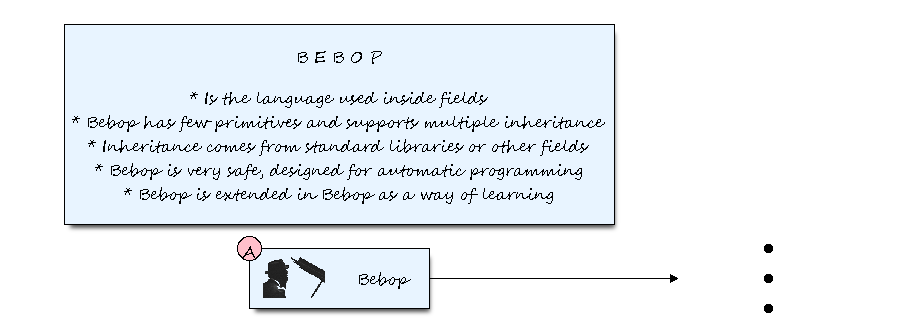
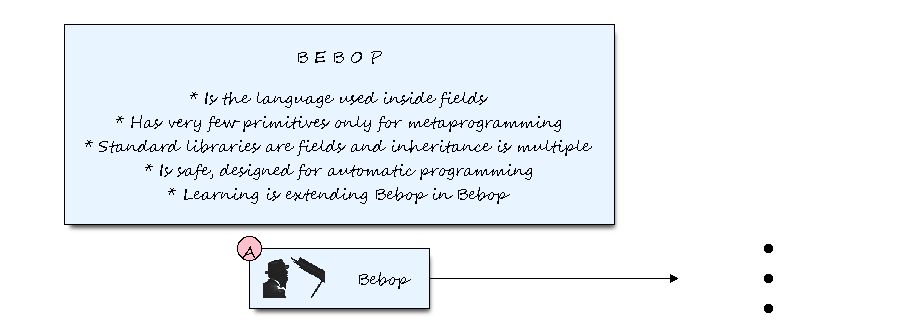
automated commit, Sat 25 Jan 2020 10:31:55 PM CET

Changed region(s): [[0.0911, 0.4217, 0.6377, 0.5422], [0.0911, 0.3614, 0.6681, 0.3916], [0.1518, 0.5723, 0.6074, 0.6024]]

diff --git a/jazz_reference/vision_bop_fields_contexts.html b/jazz_reference/vision_bop_fields_contexts.html
@@ -410,15 +410,85 @@ $('#toc').on('click', 'a', function() {
 
     
 
-  <h2 id="introducing-bebop">Introducing Bebop</h2>
+  <h2 id="introducing-jazz-magic">Introducing “Jazz Magic”</h2>
+
+<p>Until now, we introduced blocks, filestores and containers that somehow (we will get there) are accessed via http. That part is just a very efficient and hopefully simple way to manage already known things. The basement of Jazz so to say. The question is still: “why bother using Jazz instead of any other platform with more traction that implements these things?” Hint: Efficiency and simplicity alone are not good enough reasons.</p>
+
+<p>Before we talk about <code class="highlighter-rouge">Field</code>, <code class="highlighter-rouge">Relation</code>,<code class="highlighter-rouge">Context</code> and some other classes, we need to explain where we want to go. What we want to build is a platform that can do distributed computation building on top of simple programs (functions).</p>
+
+<p>You can look at artificial neurons as programs, they are, and at deep learning as “software 2.0”, that has been said. Does that mean
+we will never need anything other than DL? Imagine you need to code a known equation, say the fundamental equation of thermodynamics. Given enough data, you can get an acceptable approximation with millions of parameters. Aside from size and efficiency, the model comes with absolutely no warranty, especially for out of distribution data and no interpretability. Each time you have to introduce any change and train again, you have to “rediscover thermodynamics”. Actually, a less general, less precise and less computationally efficient version of it.</p>
+
+<p>Of course, you don’t need to use deep learning for that, you can use any back-end programming language and have a human code the equation for you. Nothing new under the sun.</p>
+
+<p>Why choose? That’s our point. We want to build a computing framework that can be coded by humans, thus creating simple and efficient programs. But we want these programs to also be learned. We want a framework that can be coded, in a language that is safe enough to explore automatic programming while being extensible enough to include natural language as code.</p>
+
+<p>In the outworn debate between “symbolic” and “connectionist”, again: why choose? Knowledge can be built as networks of symbols, but not symbols that only have meaning for humans, grounded symbols, symbols that can be executed as code and queried. Because growing as networks
+of programs is the natural way, this is connectionism. In fact, it extends connectionism beyond deep learning since the architecture is also learned. Let’s assume that “deep learning” is defined as “anything based on differentiable end-to-end learning”, which of course is an objectionable definition, but allow us to oversimplify for now. The reason why DL needs being differentiable is because anything that cannot do gradient based optimization is too slow to work. And that is true, but only if you need to train millions (or billions) of parameters from scratch each time you train. Living systems don’t do that.</p>
+
+<p>Until now, “lifelong learning” is just an aspiration with no real content. Well, except for living things.</p>
+
+<p>We want to learn these programs, which is why we need efficient persistence to support their lifecycle. But we do not want to learn them through SGD, that’s why we don’t need the differentiable part. We want to learn few parameters at a time.</p>
+
+<p>Automatic programming has been the holy grail of AI since the times of von Neumann. Minsky even stated that the von Neumann architecure was created with the intention to do automatic programming (previous architectures had a hard code/data separation and code was not modifiable while running). Other languages, including Lisp, clearly had automated programming in mind when designed.</p>
+
+<p>The search space is virtually infinite, why do you want to fail again?</p>
+
+<p>The search space is virtually infinite in all interesting problems, including those already solved, and anyway, it is much smaller than that of deep learning, since programs are much shorter than weight vectors. The size of the search space is only an obstacle in problems that can only be approached from the uniform distribution like one-way functions. Automatic coding can be approached from many fields including genetic programming, evolutionary algorithms, compositionality and more. We also have some examples of success, including humans. Even if abiogenesis is still an unsolved problem, something finally managed to automatically build the code of some primordial cell. Let’s put it this way: It’s easier than abiogenesis because we can hack as much as we want instead of waiting for the universe to solve it for us.</p>
+
+<p>So we do not build Jazz with the intention of creating conscious robots in five years. We build it because, worst case, we have a lightweight efficient framework to express distributed data processing problems that can be used to make lots of things happen. We build it because, if not built, we cannot research the ideas we want to research to advance the field of automatic programming. Ultimately, we build it because we dream of Jazz becoming a “failure” like the von Neumann architecture or Lisp.</p>
+
+<h2 id="introducing-bebop">Introducing Bebop</h2>
+
+<p><span class="label label-info">Bebop</span></p>
+
+<p>Jazz has a programming language called <strong>Bebop</strong> (or simply <strong>Bop</strong>).</p>
+
+<div class="alert alert-warning" role="alert"><i class="fa fa-warning"></i> <b>Important:</b> Bebop is work in progress. The reference is included in its source code and available via the <a href="/develop/">developer documentation</a>. Coding safety mechanisms are explained in a paper to be shared soon.</div>
 
 <figure><img class="docimage" src="images/jazz_bebop.png" alt="" /><figcaption>Bebop</figcaption></figure>
 
+<h3 id="bebop-operates-at-source-and-bytecode-level">Bebop operates at source and bytecode level</h3>
+
+<p>After years considering different designs (starting after years trying to use existing languages) we picked a design that extremely simplifies parsing while extending Bop to make it as simple as natural language or multimedia sources. The price is, at least for the moment, you cannot code in Bop without understanding its <strong>bytecode</strong>. Bytecode is just a name, actually it is a vector or 32 bit integers with a special attribute identifying the owning <code class="highlighter-rouge">Field</code>. Positive numbers define functions, negative numbers define arguments (this includes constants, local variables, values passed by reference, constants passed by reference, etc.). The bytecode is executed as a stream of function calls with arguments passed on a stack. Conditionals jumps are supported by via functions.</p>
+
+<p>Bebop compiles anything to <strong>bytecode</strong> on request. Of course, many times it will fail, that is part of the game. Anything includes blocks containing binary files. Take a block containing an .mp3 compressed audio file. A <code class="highlighter-rouge">Field</code> named “wave data” could compile the file resulting in a function call that takes the file as an argument an decompresses it into a vector of integers.</p>
+
+<p>Besides anything potentially being considered <strong>code</strong>, Bop has a source code (text identified by a special attribute) that is just a human friendly way to manage the bytecode including basic things as: comments, includes, variable names, brackets to define code blocks, but not much more.</p>
+
+<h3 id="bebop-is-object-oriented-in-its-own-way">Bebop is object oriented (in its own way)</h3>
+
+<p>Anything provided by OOP: organization, abstraction, inheritance is provided by the class <code class="highlighter-rouge">Field</code>. This makes it unnecessary to build again classes in Bop as contemplated by previous designs. Inheritance is multiple, this implies creating a virtual <code class="highlighter-rouge">Field</code> which is the union of the inherited fields. It also creates new bytecode key assignment.</p>
+
+<h3 id="bebop-is-functional">Bebop is functional</h3>
+
+<p>In the sense that functions (bytecode) can be passed as arguments to functions and returned by functions. Also, blocks are immutable, reads are safe, writes are idempotent. It is not purely functional since side effects are possible because arguments can be passed by reference. It is up to the user to decide to make it purely functional or not.</p>
+
+<h3 id="bebop-is-safe">Bebop is safe</h3>
+
+<p>Bop supports both static and dynamic analysis of its own code. Static allows analyzing the code without running it. The mechanism implemented is described in a paper that will be shared soon. Dynamic allows defining alternative code in case of failure, called forking a function.</p>
+
+<h3 id="bebop-forks">Bebop forks</h3>
+
+<p>Pure functions can be forked from other pure functions. A <strong>forked forked</strong> points to its ancestor which can be called as an alternative in case the function raises an error. This requires functions to be pure functions (not have arguments passed by reference).</p>
+
+<h3 id="automatic-function-result-caching">Automatic function result caching</h3>
+
+<p>Pure functions can be optionally cached (memoized) by a directive. This makes caching simple, reliable and potentially hugely profitable. Function caching can also be used as a algorithmic strategy as in <strong>dynamic programming</strong>.</p>
+
 <h2 id="introducing-fields">Introducing Fields</h2>
+
+<p><span class="label label-info">Field</span></p>
+
+<p>As mentioned, a <code class="highlighter-rouge">Field</code> is an abstraction that has many of the features classes have in OOP. It is also similar to a package or library. Some STL fields will include efficient functions to do arithmetic, algebra, text manipulation, etc. Fields can also be purely created in Bop. Fields relate to each other, not by a DAG like code dependencies, but by relations. Reading the next page on relations will shed light on the role fields play in Jazz.</p>
 
 <figure><img class="docimage" src="images/jazz_field.png" alt="" /><figcaption>Field class</figcaption></figure>
 
 <h2 id="introducing-contexts">Introducing Contexts</h2>
+
+<p><span class="label label-info">Context</span></p>
+
+<p>A <code class="highlighter-rouge">Context</code> can be seen as an actionable log file. This is a requirement for reproducibility and is also required to compare learning methods. The precise definition of a context will surely change over time. So take <code class="highlighter-rouge">Context</code> informally as “everything required to reproduce a result”. It could be a conversation with a chatbot, a text corpus used to answer questions, … Ideally, in a format like a macro that records and plays back interactions, possibly one by one, with the same or different code.</p>
 
 <figure><img class="docimage" src="images/jazz_context.png" alt="" /><figcaption>Context class</figcaption></figure>
 
@@ -458,7 +528,7 @@ $('#toc').on('click', 'a', function() {
             <div class="row">
                 <div class="col-lg-12 footer">
                &copy;2020 kaalam.ai. All rights reserved. <br />
- Site last generated: Jan 19, 2020 <br />
+ Site last generated: Jan 25, 2020 <br />
 <p><img src="images/company_logo.png" alt="Company logo"/></p>
                 </div>
             </div>

diff --git a/jazz_reference/vision_blocks_containers.html b/jazz_reference/vision_blocks_containers.html
@@ -412,10 +412,10 @@ $('#toc').on('click', 'a', function() {
 
   <h2 id="introducing-blocks">Introducing Blocks</h2>
 
-<p><span class="label label-info">JazzBlock</span></p>
+<p><span class="label label-info">Block</span></p>
 
-<p>In Jazz <strong>everything is a block</strong>. This means all the classes, data, functions, Bop programs and static objects that make a system are
-stored as blocks. Even the block containers are stored as blocks. Let’s start with what blocks are made of.</p>
+<p>In Jazz <strong>everything is a</strong> <code class="highlighter-rouge">Block</code>. This means all the classes, data, functions, Bop programs and static objects that make a system are
+stored as blocks. Even block containers are stored as blocks. Let’s start with what blocks are made of.</p>
 
 <figure><img class="docimage" src="images/jazz_block.png" alt="" style="max-width: 540px" /><figcaption>A jazz block</figcaption></figure>
 
@@ -425,13 +425,13 @@ stored as blocks. Even the block containers are stored as blocks. Let’s start 
 include what you expect in any language: Boolean, integer, float, string of different sizes. Data blocks are typically small, as
 in tenths of thousands of cells, but can be bigger to avoid cross-block boundaries when processing bigger objects (e.g. high resolution
 video). Also, rigorous data analytics is supported: All types (except byte) support a NA (Not Available) logic. There are <strong>sorted factor</strong>,
-<strong>unsorted factor</strong> and <strong>strings as factor</strong> types. Bear in mind that <strong>any file</strong> is a block, since it is a vector (tensor or rank 1)  of
+<strong>unsorted factor</strong> and <strong>strings as factor</strong> types. Bear in mind that <strong>any file</strong> is a <code class="highlighter-rouge">Block</code>, since it is a vector (tensor or rank 1)  of
 bytes. Besides that, there are multi-block abstractions (columns, tables, etc.), which are, again, implemented as blocks.</p>
 
 <h3 id="a-block-has-attributes">A Block has attributes</h3>
 
 <p>Blocks have attributes as first class citizen. Attributes are maps from integer to string. Attributes are contained inside the
-block. Possible attributes are:</p>
+<code class="highlighter-rouge">Block</code>. Possible attributes are:</p>
 
 <ul>
   <li><strong>Urls</strong>. This automatically exposes the object under that url in the http server.</li>
@@ -441,25 +441,27 @@ block. Possible attributes are:</p>
   <li><strong>Jazz classes</strong>. Last but not least: Functions are blocks, classes are blocks, more on that in a moment.</li>
 </ul>
 
-<div class="alert alert-info" role="alert"><i class="fa fa-info-circle"></i> <b>Note:</b> Since any resource is a block and blocks can have urls. A Jazz server is the only http server you need
+<div class="alert alert-info" role="alert"><i class="fa fa-info-circle"></i> <b>Note:</b> Since any resource is a <code class="highlighter-rouge">Block</code> and blocks can have urls. A Jazz server is the only http server you need
 to support any web technology, from static webpages to Typescript and JS frameworks such as Angular and Ionic.</div>
 
 <div class="alert alert-success" role="alert"><i class="fa fa-check-square-o"></i> <b>Tip:</b> For the final user, Jazz is a website or mobile app that does “AI magic”.</div>
 
 <h3 id="a-block-has-an-owner">A Block has an owner</h3>
 
-<p>A block is binary moveable, quasi-immutable and has an owner, called a <strong>container</strong>.
+<p>A <code class="highlighter-rouge">Block</code> is binary moveable, quasi-immutable and has an owner, called a <code class="highlighter-rouge">Container</code>.
 This means:</p>
 
 <ul>
   <li><strong>Binary moveable</strong> - It can be copied “as is” because it has no pointers.</li>
   <li><strong>Quasi-immutable</strong> - Via the API, it appears as immutable. Of course, in C++ you can still change its content for performance reasons and
 provide an interface that abstracts that out.</li>
-  <li><strong>Owner</strong> - According to the owner, a block can be: <strong>one shot</strong>, <strong>volatile</strong> or <strong>persisted</strong>. <strong>One shot</strong> is possible only in C++, it
-means the creator owns the block. All other blocks have a <strong>container</strong>. Via the API, blocks can only be created inside <code class="highlighter-rouge">Container</code> descendants. Some containers have a <code class="highlighter-rouge">Filestore</code>. In that case their blocks are <strong>persisted</strong>, i.e., they exist on a memory mapped file to/from which they can be saved/loaded. Other containers, e.g., a tree used in a tree search, do not need to be persisted. Their blocks are named <strong>volatile</strong> in this case.</li>
+  <li><strong>Owner</strong> - According to the owner, a <code class="highlighter-rouge">Block</code> can be: <strong>one shot</strong>, <strong>volatile</strong> or <strong>persisted</strong>. <strong>One shot</strong> is possible only in C++, it
+means the creator owns the <code class="highlighter-rouge">Block</code>. All other blocks have a <strong>container</strong>. Via the API, blocks can only be created inside <code class="highlighter-rouge">Container</code> descendants. Some containers have a <code class="highlighter-rouge">Filestore</code>. In that case their blocks are <strong>persisted</strong>, i.e., they exist on a memory mapped file to/from which they can be saved/loaded. Other containers, e.g., a tree used in a tree search, do not need to be persisted. Their blocks are named <strong>volatile</strong> in this case.</li>
 </ul>
 
 <h2 id="introducing-filestores">Introducing Filestores</h2>
+
+<p><span class="label label-info">Filestore</span></p>
 
 <p>The class <code class="highlighter-rouge">Filestore</code> implements persistence of all Jazz objects using <strong>LMDB</strong>. Therefore, a Jazz file is an LMDB file of persisted blocks.
 You can even use command line LMDB utilities to backup a Jazz server while running or access the same file from more than one process.</p>
@@ -475,26 +477,28 @@ key/value store second to none in terms of efficiency</strong>.</div>
 
 <h2 id="introducing-containers">Introducing Containers</h2>
 
-<p>The class <code class="highlighter-rouge">Container</code>is an abstract class. It defines an API to manage blocks (possibly persisted) with a consistent interface. The containers themselves are just efficient data structures required by different algorithms. You can think of it as the C++ STL, actually
-some containers are wrappers around STL containers. Others are implemented from scratch or using more than one STL container.</p>
+<p><span class="label label-info">Container</span></p>
+
+<p>The class <code class="highlighter-rouge">Container</code>is an abstract class. It defines an API to manage blocks (possibly persisted) with a consistent interface. The containers themselves are just efficient data structures required by different algorithms. You can think of it as the C++ STL. Actually,
+some containers are just wrappers around STL containers, others are implemented from scratch or using more than one STL container.</p>
 
 <figure><img class="docimage" src="images/jazz_container.png" alt="" /><figcaption>Containers class</figcaption></figure>
 
 <h3 id="blocks-and-containers-have-identifiers-jazz-clusters-have-global-paths">Blocks and containers have identifiers, Jazz clusters have global paths</h3>
 
-<p>Jazz blocks have identifiers. Identifiers are unique in the context of their container. Containers themselves, since they are blocks, have identifiers. Adding Filestores and even Jazz nodes to the “combo” results in global distributed paths valid over a cluster of Jazz nodes.</p>
+<p>Jazz blocks have identifiers. Identifiers are unique in the context of their container. Containers themselves, since they are blocks, have identifiers. Adding <code class="highlighter-rouge">Filestore</code> IDs and even Jazz node IDs we get “global” distributed paths (valid over a cluster of Jazz nodes).</p>
 
 <p><br /></p>
 
-<div class="alert alert-info" role="alert"><i class="fa fa-info-circle"></i> <b>Note:</b> You can create <strong>trees of containers</strong> of any complexity using the API.</div>
+<div class="alert alert-info" role="alert"><i class="fa fa-info-circle"></i> <b>Note:</b> You can create <strong>trees of containers</strong> of any complexity using the API. The only limitation is: Once any container is grounded in a <code class="highlighter-rouge">FileStore</code>, all its descendants can only be grounded in the same <code class="highlighter-rouge">FileStore</code>. This behavior is handled by the class automatically.</div>
 
 <p><br /></p>
 
 <div class="alert alert-success" role="alert"><i class="fa fa-check-square-o"></i> <b>Tip:</b> Since containers are efficient data structures, many Jazz classes inherit them. E.g., The Finder is a Chart.</div>
 
-<p><br /></p>
+<h3 id="container-descendent-reference">Container descendent reference</h3>
 
-<div class="alert alert-warning" role="alert"><i class="fa fa-warning"></i> <b>Important:</b> The reference for each Container descendant is the source code, at least until their definitions are stable.</div>
+<div class="alert alert-warning" role="alert"><i class="fa fa-warning"></i> <b>Important:</b> The reference for each Container descendant is included in its source code and available via the <a href="/develop/">developer documentation</a>. At least until definitions are so stable that we consider backward compatibility a priority, there is no other reference.</div>
 
 <p><br /></p>
 
@@ -532,7 +536,7 @@ some containers are wrappers around STL containers. Others are implemented from 
             <div class="row">
                 <div class="col-lg-12 footer">
                &copy;2020 kaalam.ai. All rights reserved. <br />
- Site last generated: Jan 19, 2020 <br />
+ Site last generated: Jan 25, 2020 <br />
 <p><img src="images/company_logo.png" alt="Company logo"/></p>
                 </div>
             </div>

diff --git a/jazz_reference/reference_server_setup.html b/jazz_reference/reference_server_setup.html
@@ -454,7 +454,7 @@ The file is self explanatory both about edition procedures and about the functio
             <div class="row">
                 <div class="col-lg-12 footer">
                &copy;2020 kaalam.ai. All rights reserved. <br />
- Site last generated: Jan 19, 2020 <br />
+ Site last generated: Jan 25, 2020 <br />
 <p><img src="images/company_logo.png" alt="Company logo"/></p>
                 </div>
             </div>

diff --git a/jazz_reference/using_jazz_today.html b/jazz_reference/using_jazz_today.html
@@ -587,7 +587,7 @@ details of development are updated in the <a href="/develop/">developer’s refe
             <div class="row">
                 <div class="col-lg-12 footer">
                &copy;2020 kaalam.ai. All rights reserved. <br />
- Site last generated: Jan 19, 2020 <br />
+ Site last generated: Jan 25, 2020 <br />
 <p><img src="images/company_logo.png" alt="Company logo"/></p>
                 </div>
             </div>

diff --git a/jazz_reference/vision_intro_page.html b/jazz_reference/vision_intro_page.html
@@ -463,7 +463,7 @@ change the name to the latter. Take this as <strong>This is Jazz</strong> but mo
             <div class="row">
                 <div class="col-lg-12 footer">
                &copy;2020 kaalam.ai. All rights reserved. <br />
- Site last generated: Jan 19, 2020 <br />
+ Site last generated: Jan 25, 2020 <br />
 <p><img src="images/company_logo.png" alt="Company logo"/></p>
                 </div>
             </div>

diff --git a/jazz_reference/api_ref_elements.html b/jazz_reference/api_ref_elements.html
@@ -830,7 +830,7 @@ HTML, so you’d have to hard-code the heading ID for the auto-TOC to work.</p>
             <div class="row">
                 <div class="col-lg-12 footer">
                &copy;2020 kaalam.ai. All rights reserved. <br />
- Site last generated: Jan 19, 2020 <br />
+ Site last generated: Jan 25, 2020 <br />
 <p><img src="images/company_logo.png" alt="Company logo"/></p>
                 </div>
             </div>

diff --git a/jazz_reference/bop_ref_elements.html b/jazz_reference/bop_ref_elements.html
@@ -830,7 +830,7 @@ HTML, so you’d have to hard-code the heading ID for the auto-TOC to work.</p>
             <div class="row">
                 <div class="col-lg-12 footer">
                &copy;2020 kaalam.ai. All rights reserved. <br />
- Site last generated: Jan 19, 2020 <br />
+ Site last generated: Jan 25, 2020 <br />
 <p><img src="images/company_logo.png" alt="Company logo"/></p>
                 </div>
             </div>

diff --git a/jazz_reference/vision_apis_services.html b/jazz_reference/vision_apis_services.html
@@ -425,7 +425,7 @@ $('#toc').on('click', 'a', function() {
             <div class="row">
                 <div class="col-lg-12 footer">
                &copy;2020 kaalam.ai. All rights reserved. <br />
- Site last generated: Jan 19, 2020 <br />
+ Site last generated: Jan 25, 2020 <br />
 <p><img src="images/company_logo.png" alt="Company logo"/></p>
                 </div>
             </div>

diff --git a/jazz_reference/vision_relations_finder.html b/jazz_reference/vision_relations_finder.html
@@ -454,7 +454,7 @@ $('#toc').on('click', 'a', function() {
             <div class="row">
                 <div class="col-lg-12 footer">
                &copy;2020 kaalam.ai. All rights reserved. <br />
- Site last generated: Jan 19, 2020 <br />
+ Site last generated: Jan 25, 2020 <br />
 <p><img src="images/company_logo.png" alt="Company logo"/></p>
                 </div>
             </div>

diff --git a/jazz_reference/index.html b/jazz_reference/index.html
@@ -456,7 +456,7 @@ movement”.</div>
             <div class="row">
                 <div class="col-lg-12 footer">
                &copy;2020 kaalam.ai. All rights reserved. <br />
- Site last generated: Jan 19, 2020 <br />
+ Site last generated: Jan 25, 2020 <br />
 <p><img src="images/company_logo.png" alt="Company logo"/></p>
                 </div>
             </div>

diff --git a/jazz_reference/contributing_welcome_all.html b/jazz_reference/contributing_welcome_all.html
@@ -492,7 +492,7 @@ attentively.</p>
             <div class="row">
                 <div class="col-lg-12 footer">
                &copy;2020 kaalam.ai. All rights reserved. <br />
- Site last generated: Jan 19, 2020 <br />
+ Site last generated: Jan 25, 2020 <br />
 <p><img src="images/company_logo.png" alt="Company logo"/></p>
                 </div>
             </div>

diff --git a/jazz_reference/using_compile_jazz.html b/jazz_reference/using_compile_jazz.html
@@ -565,7 +565,7 @@ variables.</div>
             <div class="row">
                 <div class="col-lg-12 footer">
                &copy;2020 kaalam.ai. All rights reserved. <br />
- Site last generated: Jan 19, 2020 <br />
+ Site last generated: Jan 25, 2020 <br />
 <p><img src="images/company_logo.png" alt="Company logo"/></p>
                 </div>
             </div>
